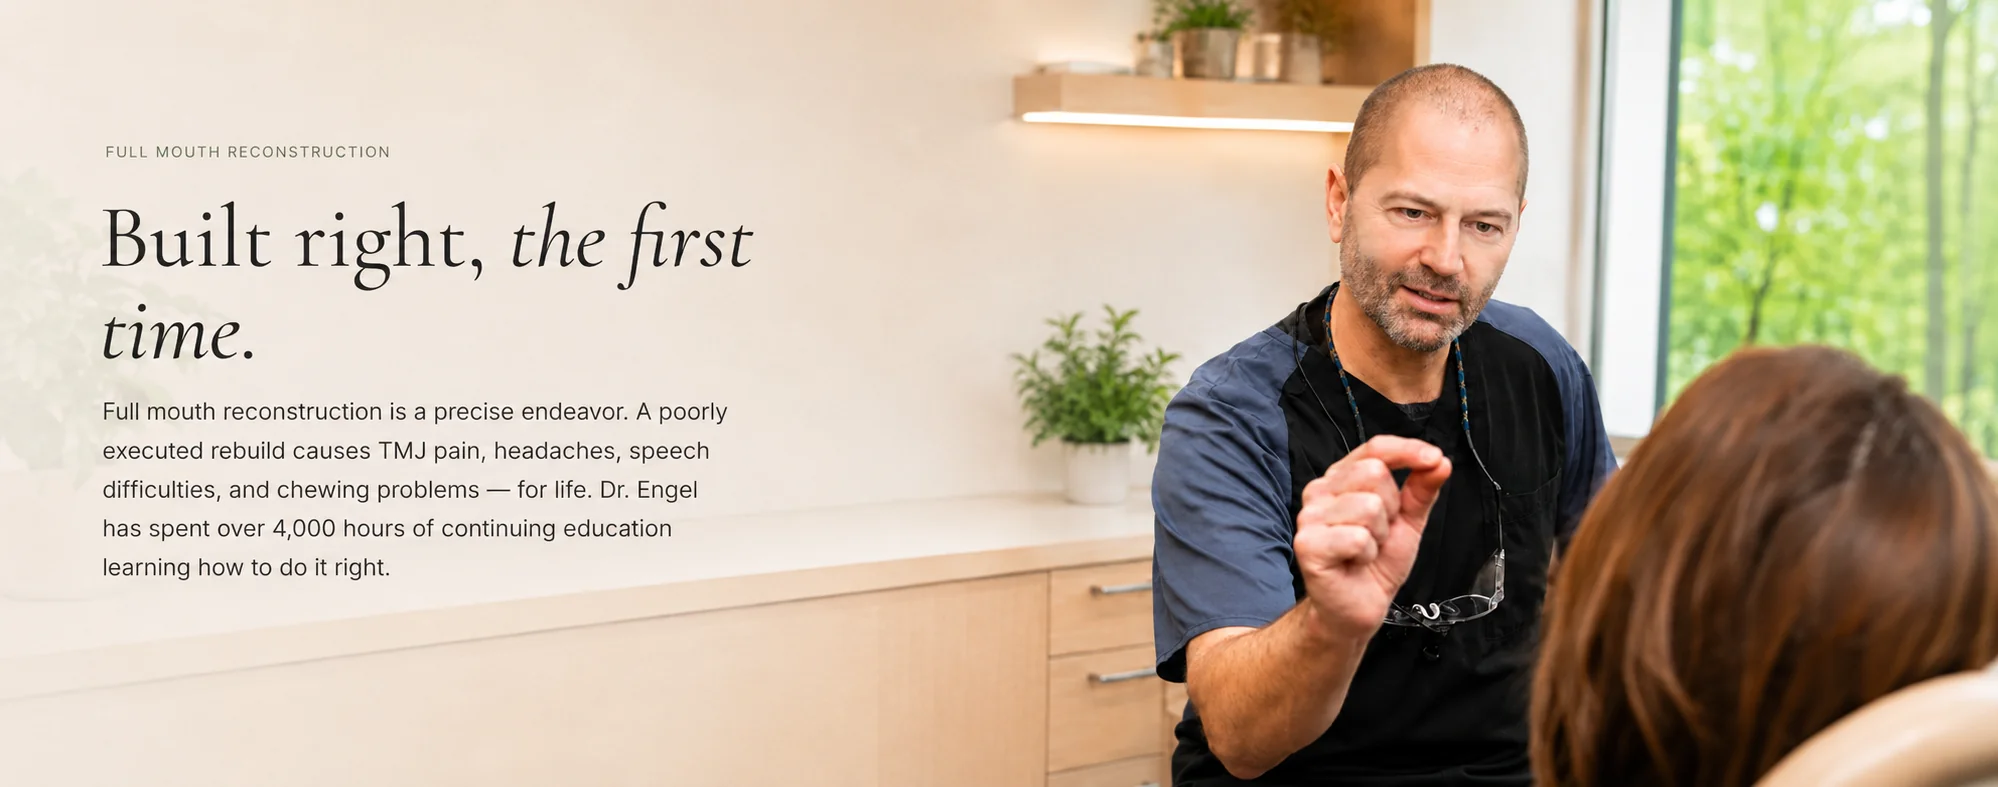
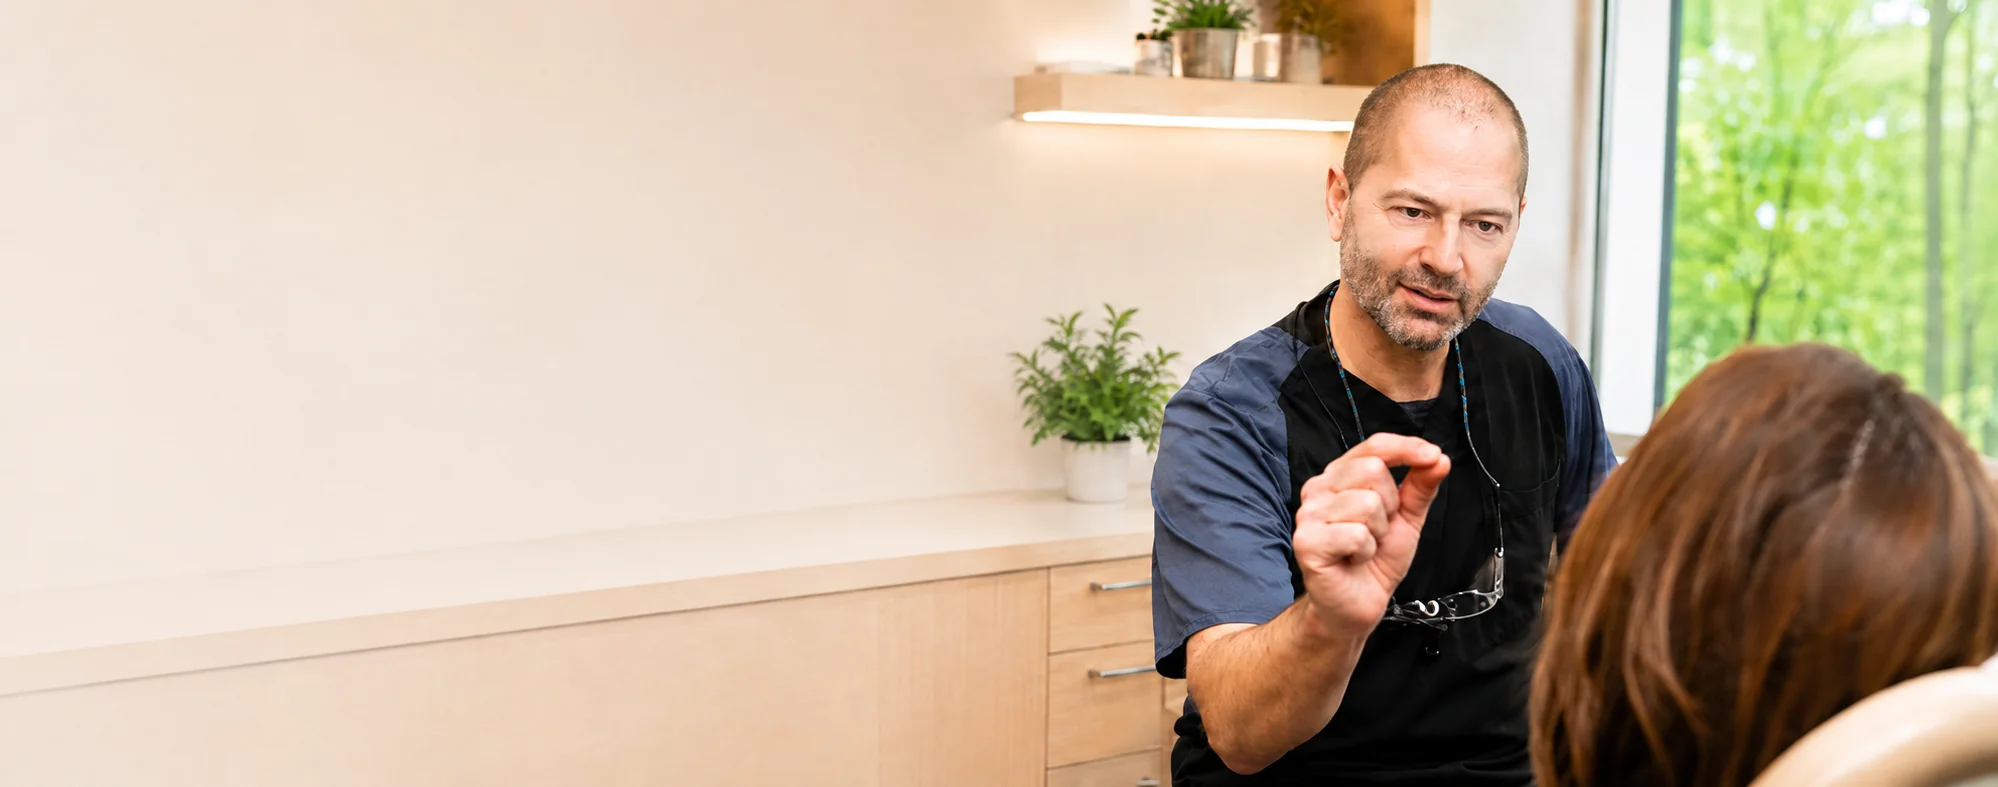
FMR hero: switch to clean photo + CSS text overlay (was baked-in text)
User prefers the CSS-overlay hero treatment (like Implants & Cosmetic)
over the baked-in-text version. Swapped fmr-hero.webp to the text-free
1998x787 photo (Dr. Engel in conversation, thinned hair, ~68KB webp)
and rebuilt the hero block:

- Reverted from the lg:hidden baked-text config back to the standard
  lg:absolute CSS overlay: eyebrow + H1 ("Built right, the first
  time.", lg:text-[64px]) + intro paragraph, with the left cream
  gradient scrim for legibility over the bright wall.
- Headline and intro copy are byte-for-byte the same as the baked
  version — they're just real DOM text now instead of pixels.
- Alt text simplified to describe the photo, since the words are no
  longer in the image.

Net win for SEO/a11y: the H1 and supporting copy are now crawlable,
selectable HTML text rather than an image with alt fallback. Only the
FMR page references fmr-hero.webp (confirmed) — no shared-image
collateral.

Schema audit passed all 7 checks: H1/description/FAQ/facts unchanged,
entity graph intact, alt now correctly matches a text-free photo.

Claude-Session: https://claude.ai/code/session_016QwuLWXd3AVmK1dM9BSGqr

diff --git a/app/full-mouth-reconstruction/page.tsx b/app/full-mouth-reconstruction/page.tsx
@@ -130,41 +130,51 @@ export default function FullMouthReconstructionPage() {
           </ol>
         </nav>
 
-        {/* HERO — the photo has the eyebrow, headline, and supporting copy
-            baked into the design on desktop. Overlay text only renders on
-            mobile (where the photo is cropped to just Dr. Engel and the
-            patient via object-[74%_center]). */}
+        {/* HERO — headline overlaid on the photo's negative space (desktop),
+            stacked above the photo (mobile). Single H1, repositioned by CSS. */}
         <div className="relative">
-          <div className="px-6 pt-6 pb-10 text-center lg:hidden">
-            <div className="mx-auto w-full max-w-[1320px]">
-              <p
-                className="font-inter text-[11px] font-light uppercase tracking-widest"
-                style={{ color: SAGE }}
-              >
-                &mdash; full mouth reconstruction &mdash;
-              </p>
-              <h1 className="mt-5 font-serif text-[40px] leading-[1.05] text-charcoal sm:text-[56px]">
-                Built right,{" "}
-                <span className="font-serif-italic">the first time.</span>
-              </h1>
-              <p className="mx-auto mt-5 max-w-[560px] font-inter text-[15px] font-light leading-[1.7] text-charcoal-soft sm:text-[17px]">
-                Full mouth reconstruction is a precise endeavor. A poorly
-                executed rebuild causes TMJ pain, headaches, speech
-                difficulties, and chewing problems &mdash; for life. Dr.
-                Engel has spent over 4,000 hours of continuing education
-                learning how to do it right.
-              </p>
+          <div className="px-6 pt-6 pb-10 text-center lg:absolute lg:inset-0 lg:z-10 lg:flex lg:items-center lg:py-0 lg:text-left">
+            <div className="mx-auto w-full max-w-[1320px] lg:px-6">
+              <div className="lg:max-w-[560px]">
+                <p
+                  className="font-inter text-[11px] font-light uppercase tracking-widest"
+                  style={{ color: SAGE }}
+                >
+                  &mdash; full mouth reconstruction &mdash;
+                </p>
+                <h1 className="mt-5 font-serif text-[40px] leading-[1.05] text-charcoal sm:text-[56px] lg:text-[64px]">
+                  Built right,{" "}
+                  <span className="font-serif-italic">the first time.</span>
+                </h1>
+                <p className="mx-auto mt-5 max-w-[560px] font-inter text-[15px] font-light leading-[1.7] text-charcoal-soft sm:text-[17px] lg:mx-0 lg:max-w-[460px]">
+                  Full mouth reconstruction is a precise endeavor. A poorly
+                  executed rebuild causes TMJ pain, headaches, speech
+                  difficulties, and chewing problems &mdash; for life. Dr.
+                  Engel has spent over 4,000 hours of continuing education
+                  learning how to do it right.
+                </p>
+              </div>
             </div>
           </div>
 
           <div className="relative h-[380px] w-full overflow-hidden sm:h-[460px] lg:h-[55vh] lg:min-h-[560px] lg:max-h-[760px]">
             <Image
               src="/fmr-hero.webp"
-              alt="Dr. Andy Engel in conversation with a patient at Living Dental Health in Bend, Oregon, beside the hero text: Built right, the first time. Full mouth reconstruction is a precise endeavor. A poorly executed rebuild causes TMJ pain, headaches, speech difficulties, and chewing problems — for life. Dr. Engel has spent over 4,000 hours of continuing education learning how to do it right."
+              alt="Dr. Andy Engel in conversation with a patient at Living Dental Health in Bend, Oregon"
               fill
               priority
               sizes="100vw"
               className="object-cover object-[74%_center] lg:object-center"
+            />
+            {/* left scrim — keeps the charcoal headline legible over the
+                bright wall (desktop only) */}
+            <div
+              aria-hidden
+              className="pointer-events-none absolute inset-0 hidden lg:block"
+              style={{
+                background:
+                  "linear-gradient(to right, rgba(245,240,232,0.94) 0%, rgba(245,240,232,0.74) 32%, rgba(245,240,232,0) 58%)",
+              }}
             />
           </div>
         </div>
